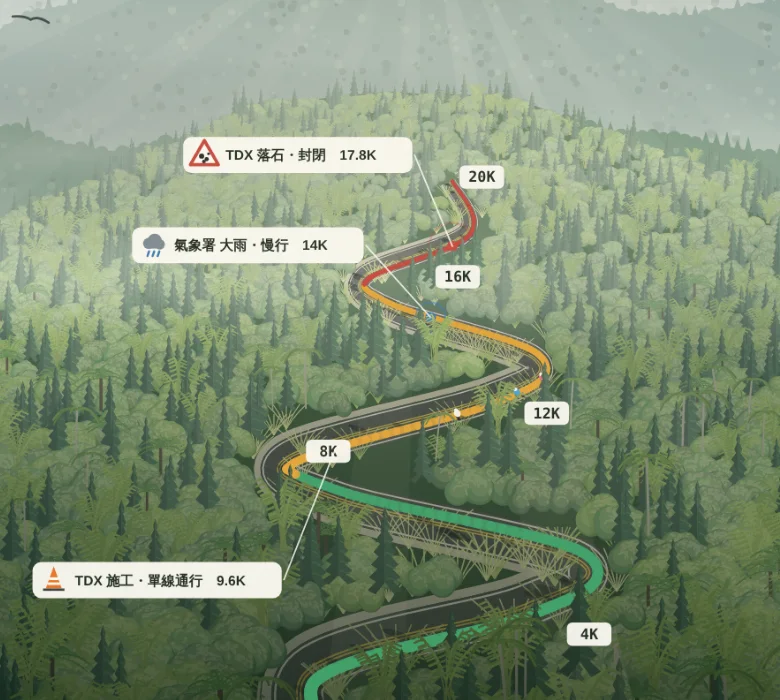
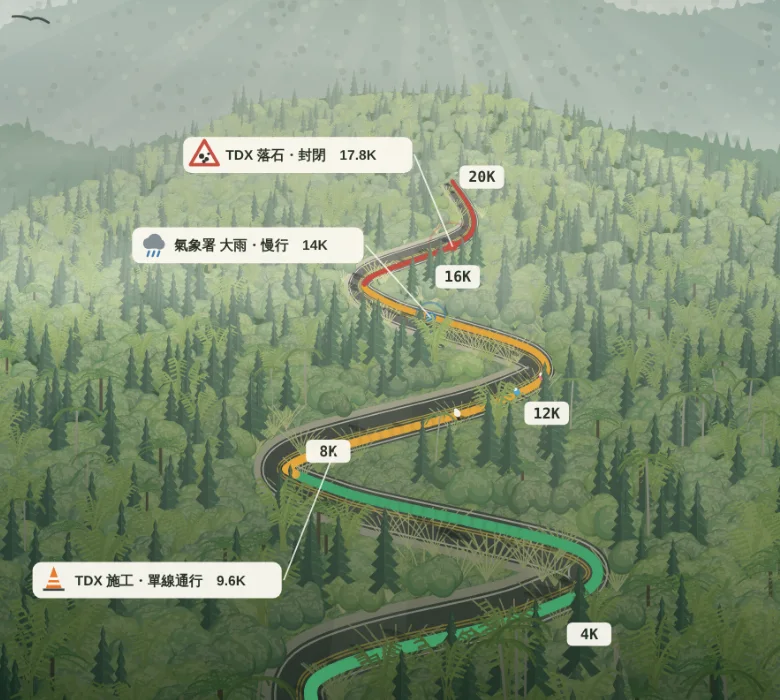
Fill bare ground between landing scene switchbacks with roadside shrubs

diff --git a/strava-route-system/apps/web/scripts/landing-scene/scene.html b/strava-route-system/apps/web/scripts/landing-scene/scene.html
@@ -163,6 +163,21 @@
       for (let i = S.length - 1; i >= 0; i--) { const p = S[i], r = rw(p[1]); P.lineTo(p[0] + N[i][0] * r * b, p[1] + N[i][1] * r * b); }
       P.closePath(); return P;
     };
+    // 路旁灌叢：樹木會避開路面，彎道之間只剩平塗的深色地面，先鋪一層矮樹冠，再由路面蓋過去
+    let minX = 1e9, maxX = -1e9, minY = 1e9; S.forEach(([x, y]) => { minX = Math.min(minX, x); maxX = Math.max(maxX, x); minY = Math.min(minY, y); });
+    const roadDist = (x, y) => { let best = 1e9, by = 0; for (const p of S) { const d = Math.hypot(p[0] - x, p[1] - y); if (d < best) { best = d; by = p[1]; } } return [best, rw(by)]; };
+    const brush = [];
+    for (let y = minY - 20; y < 1080; y += 9) {
+      const d = clamp01((y - 430) / 620), step = lerp(7, 18, d);
+      for (let x = minX - 130; x < maxX + 130; x += step) {
+        const jx = x + (hash(x * 1.3 + y * 0.7) - 0.5) * step, jy = y + (hash(x * 0.37 + y * 2.1) - 0.5) * 8;
+        if (jy < slopeTop(jx) + 4) continue;
+        const [dist, r0] = roadDist(jx, jy);
+        if (dist > r0 * 2.6 + 30) continue;
+        brush.push([jy, jx, lerp(5, 19, clamp01((jy - 430) / 620)) * (0.75 + hash(jx + jy * 3.1) * 0.5)]);
+      }
+    }
+    brush.sort((a, b) => a[0] - b[0]).forEach(([y, x, r], i) => broadleaf(c, x, y, r, (j) => hash(i * 7.1 + j * 2.9 + 500), (1 - clamp01((y - 430) / 620)) * 0.45));
     c.fillStyle = "#cbc6b2"; c.fill(bandPath(-0.68, -0.5));
     const road = bandPath(-0.5, 0.5);
     c.fillStyle = "#40484a"; c.fill(road);
